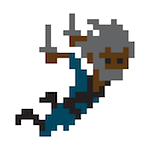
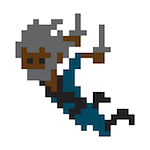
flipped good guys horizontally so they're not running away from the battle anymore

diff --git a/app/partials/character-card.html b/app/partials/character-card.html
@@ -17,8 +17,7 @@
                'selectedTarget': selections.activeTarget.id == character.id,
                'notSelected': selections.activeActor.id != character.id && selections.activeTarget.id != character.id}"
              ng-show="character.health <= 0"
-             style="background-image: url(img/dead_mario.jpg)">
-
+             style="background-image: url(img/gravestone.png)">
         </div>
 
         <progressbar style="width: 150px"
